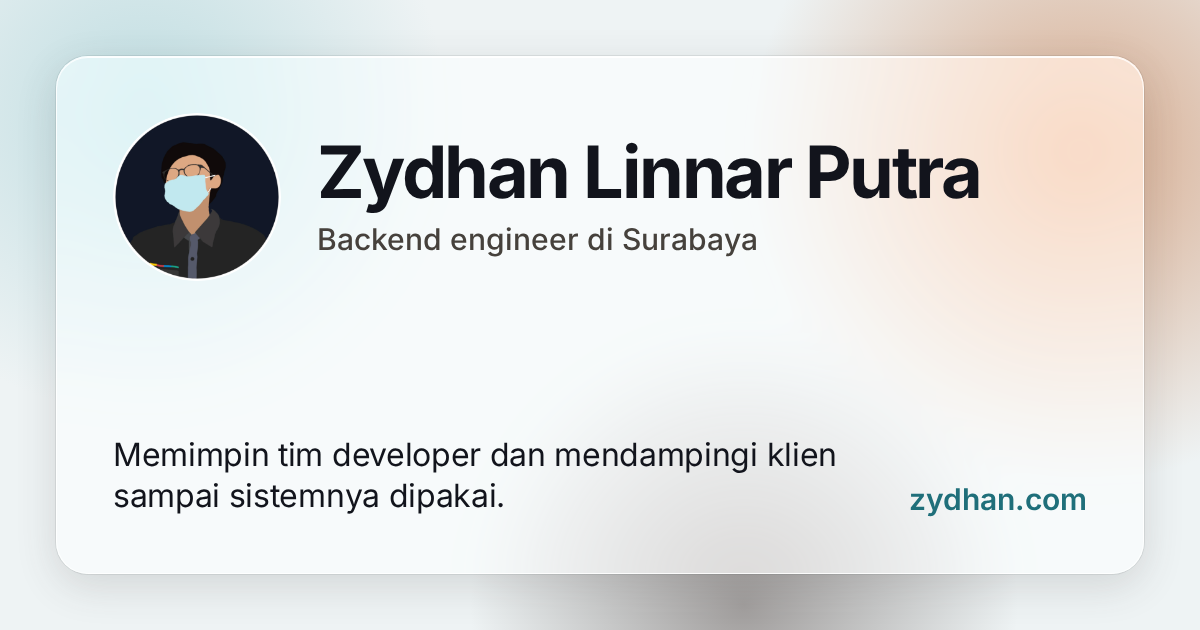
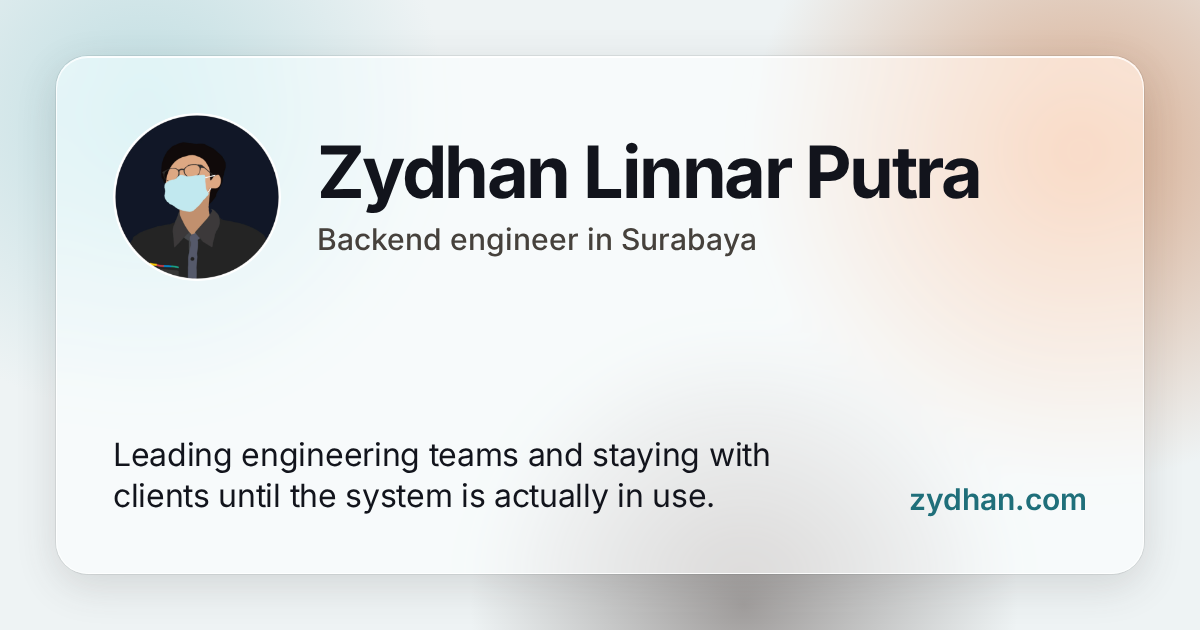
fix: og card pakai teks EN (final review)

Changed region(s): [[0.0925, 0.6937, 0.7092, 0.8143], [0.4933, 0.3619, 0.6475, 0.3921]]

diff --git a/scripts/og-card.html b/scripts/og-card.html
@@ -1,8 +1,8 @@
 <!doctype html>
-<html lang="id">
+<html lang="en">
 	<head>
 		<meta charset="utf-8" />
-		<title>Kartu Open Graph zydhan.com</title>
+		<title>zydhan.com Open Graph card</title>
 		<style>
 			@font-face {
 				font-family: 'Inter';
@@ -145,13 +145,13 @@
 					<img class="logo" src="../static/logo.webp" alt="" width="168" height="168" />
 					<div class="identity-copy">
 						<h1>Zydhan Linnar Putra</h1>
-						<p class="role">Backend engineer di Surabaya</p>
+						<p class="role">Backend engineer in Surabaya</p>
 					</div>
 				</div>
 
 				<div class="footer">
 					<p class="description">
-						Memimpin tim developer dan mendampingi klien sampai sistemnya dipakai.
+						Leading engineering teams and staying with clients until the system is actually in use.
 					</p>
 					<span class="domain">zydhan.com</span>
 				</div>
